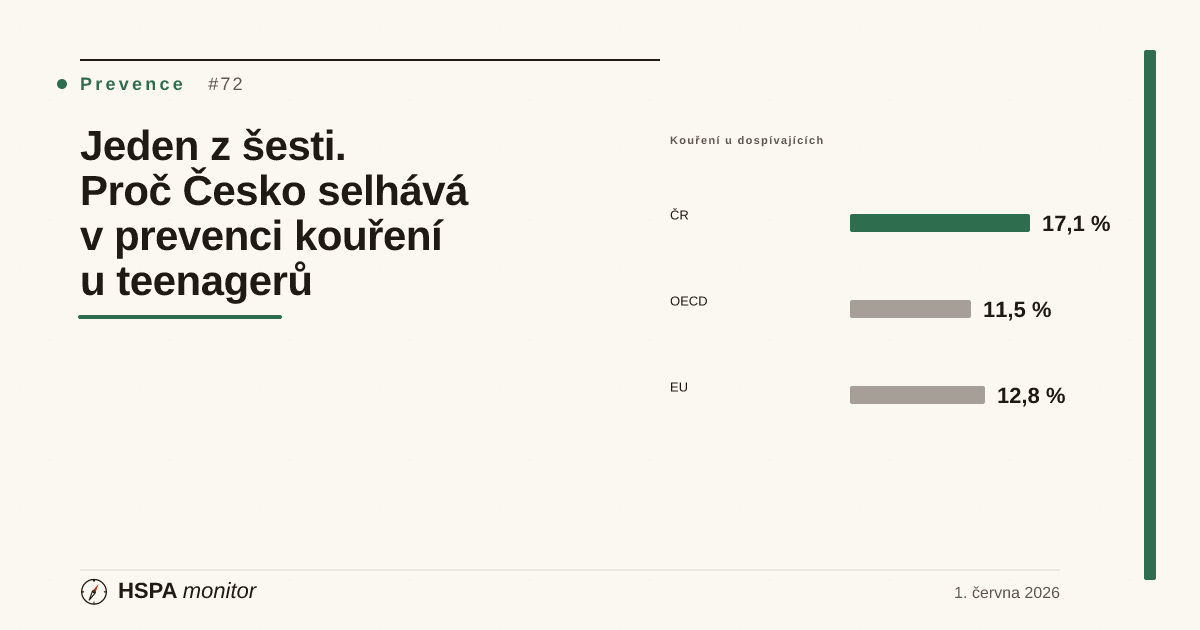
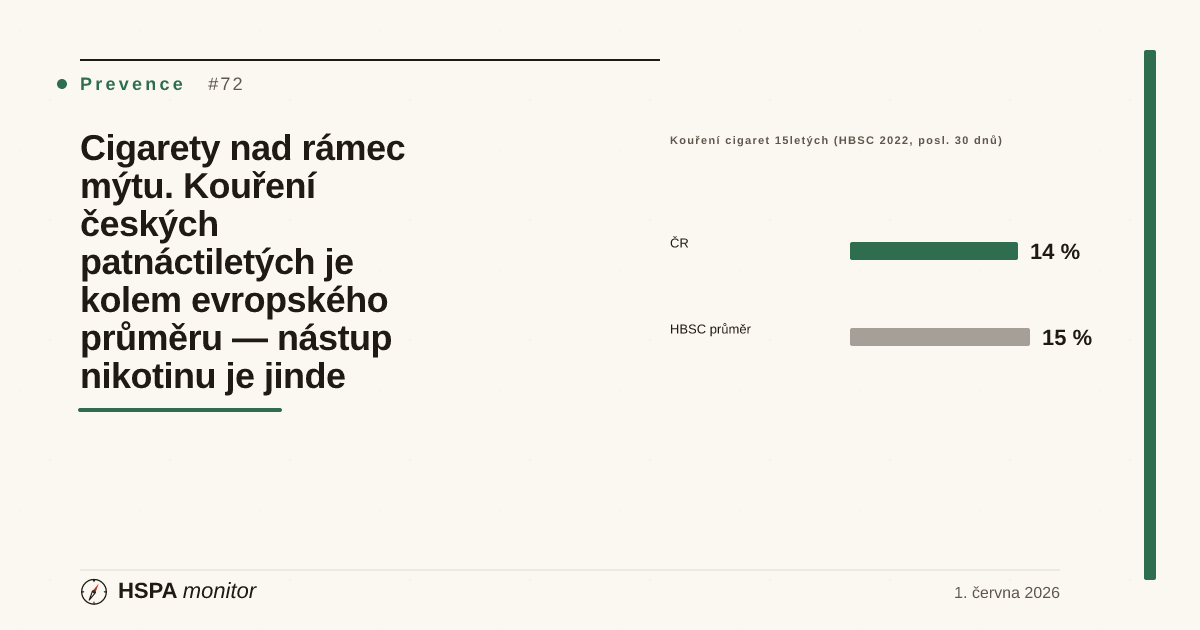
daily(audit): 2026-06-09 — koureni-adolescenti audit-flag, oprava HBSC datové páteře na primární základ
ZÁSADNÍ nález (Phase 5): centrální teze živého článku byla provably-false proti
primárnímu WHO/HBSC zdroji.

Primárně ověřeno (HBSC data browser + WHO/Europe report 2021/22, 9. 6. 2026):
- ČR 15letí: ~14 % kouřilo cigarety v posl. 30 dnech (current use), lifetime 31 %
- cross-national průměr HBSC (44 zemí): 15 % current / 25 % lifetime
- e-cigarety current 20 % (předčily cigarety); ever 32 %
- HBSC NEMÁ ukazatel 'týdně' ani OECD/EU průměr

Opravy:
- indikátor prevalence_koureni_adolescenti: value 17,1→14, benchmark {oecd 11,5,
  eu 12,8}→{} (fabrikované seed), signal bad→neutral, trend→[], source.url doplněn
- metodická karta: definice (30-day current use, ne 'týdně'), benchmark_source
  (HBSC 15 %), method_notes/limitations/patient_story de-falsifikovány
- článek: deck/hero/závěr/databox opraveny; odstraněna neověřená tabulka zemí
  a trend 2010–2022; přidán methodology caveat; doplněna primárně ověřená NAUTA
  2025; korekce tvrzení o školním programu (Škola bez nikotinu, SZÚ 2023)
- published:true→false, audit-status flagged (staženo z produkce)
- cover regenerován

validate:all OK, 517/517 testů zelených.

diff --git a/05_M1_Starter/clanek-koureni-adolescenti.html b/05_M1_Starter/clanek-koureni-adolescenti.html
@@ -3,22 +3,22 @@
 <head>
 <meta charset="UTF-8">
 <meta name="viewport" content="width=device-width, initial-scale=1.0">
-<title>Jeden z šesti. Proč Česko selhává v prevenci kouření u teenagerů · HSPA Monitor</title>
-<meta name="description" content="17,1 % českých 15letých kouří alespoň týdně — o 49 % více než průměr OECD (11,5 %). Skandinávie se dostala pod 6 %. Za rozdílem stojí chybějící školní prevence, volný marketing e-cigaret a cenová dostupnost tabáku. Strukturální analýza a politické páky.">
+<title>Kouření českých patnáctiletých je kolem evropského průměru — nástup nikotinu je jinde · HSPA Monitor</title>
+<meta name="description" content="Audit zdrojů (9. 6. 2026): podle primárního zdroje WHO/HBSC 2022 kouří cigarety v posledních 30 dnech přibližně 14 % českých 15letých — na úrovni / mírně pod cross-national průměrem HBSC (15 %). Skutečný posun je k e-cigaretám a nikotinu (HBSC, NAUTA 2025). Původní teze o „49 % nad OECD“ byla neověřená a je opravena.">
 <meta name="robots" content="noindex, follow">
 <meta property="og:type" content="article">
-<meta property="og:title" content="Jeden z šesti. Proč Česko selhává v prevenci kouření u teenagerů">
-<meta property="og:description" content="17,1 % českých 15letých kouří týdně — o 49 % více než OECD průměr. Co za tím stojí a kde leží politické páky?">
+<meta property="og:title" content="Kouření českých patnáctiletých je kolem evropského průměru — nástup nikotinu je jinde">
+<meta property="og:description" content="WHO/HBSC 2022: ~14 % českých 15letých kouřilo cigarety v posl. 30 dnech (current use) vs cross-national průměr 15 %. Skutečný posun je k vapování (NAUTA 2025).">
 <meta property="og:locale" content="cs_CZ">
 <meta property="article:published_time" content="2026-06-01">
 <meta property="article:section" content="Prevence">
-<meta name="article:audit-status" content="review-pending">
+<meta name="article:audit-status" content="flagged">
 <!--
   audit:
-    last_reviewed: 2026-05-25
+    last_reviewed: 2026-06-09
     reviewer: claude-code-agent
-    status: draft
-    notes: "Nový indikátor prevalence_koureni_adolescenti. Seed hodnoty vychází z WHO HBSC (Health Behaviour in School-aged Children) ČR vlna 2022 (SZÚ). Trend 2010–2022 konzistentní s publikovanými zprávami SZÚ a mezinárodním HBSC reportem. Benchmark 11,5 % OECD a 12,8 % EU vychází z HBSC International Report 2022 (Bergen). ESPAD 2019 použit jako doplňkový zdroj pro historické srovnání. Článek v draftu — čeká na ruční schválení redakce a ověření přesných hodnot z HBSC 2022 Czech national report (SZÚ, expected publication 2024)."
+    status: flagged
+    notes: "AUDIT-FLAG 2026-06-09 (denni rutina, Phase 5). Nezavisle overeni proti primarnimu WHO/HBSC zdroji vyvratilo centralni tezi. HBSC nema ukazatel 'tydne' — jen 'lifetime' a 'last 30 days use' (current use); nepublikuje OECD ani EU prumer. Primarne overeno (HBSC data browser + WHO/Europe report 2021/22): CR 15leti ~14 % current use (lifetime 31 %); cross-national prumer 15 % (lifetime 25 %; e-cig ever 32 %, e-cig current 20 % — e-cigarety predcily cigarety). CR je tedy NA/mirne pod prumerem, nikoli 'o 49 % nad OECD (11,5 %)' — puvodni benchmarky byly fabrikovane (seed). Opravena datova pater, odstranena neoverena tabulka zemi a trend 2010-2022, pridan methodology caveat, doplnena primarne overena NAUTA 2025 (SZU, 15-24 let) a korekce tvrzeni o skolnim programu (Skola bez nikotinu, SZU 2023, WHO PACE 2025). published:true->false, stazeno z produkce. Pred re-publikaci: rekonstruovat per-country tabulku + trend primo z HBSC data browseru, overit CZ e-cig 30-day, redakcni reframe narrativu. GitHub issue otevren."
 -->
 <link rel="stylesheet" href="src/styles.css">
   <meta property="og:image" content="assets/covers/clanek-koureni-adolescenti.png" data-cover-injected="1">
@@ -58,9 +58,9 @@
         <span class="article-tag">Prevence</span>
         <span class="article-tag article-tag-muted">Adolescenti · Závislosti · Rizikové chování</span>
       </div>
-      <h2 class="article-title">Jeden z šesti. Proč Česko selhává v prevenci kouření u teenagerů</h2>
+      <h2 class="article-title">Kouření českých patnáctiletých je kolem evropského průměru — nástup nikotinu je jinde</h2>
       <p class="article-deck">
-        V České republice kouří cigarety alespoň jednou týdně <strong>17,1 %</strong> patnáctiletých (SZÚ — HBSC, 2022). Průměr zemí OECD je 11,5 %, průměr EU 12,8 %. Norsko, Švédsko a Finsko jsou pod 6 %. Za rozdílem nestojí genetika ani kultura — stojí za ním absence celoplošné školní prevence, volný marketing elektronických cigaret zaměřený na mládež a cenová dostupnost tabáku, která nedosahuje britských nebo irských standardů. Každý ročník, který projde bez prevence, přidá kohortu celoživotních kuřáků do budoucí nemocniční statistiky.
+        Podle primárního zdroje <strong>WHO/HBSC 2022</strong> kouřilo cigarety v posledních 30 dnech (current use) přibližně <strong>14 %</strong> českých patnáctiletých — na úrovni nebo mírně pod cross-national průměrem sítě HBSC (15 %). Česko tedy u kouření klasických cigaret <em>není</em> nad evropským průměrem, jak dříve uváděla neověřená verze tohoto textu. Skutečný posun je jinde: e-cigarety podle HBSC current use (cross-national 20 %) <strong>předčily</strong> klasické cigarety a národní šetření NAUTA 2025 (SZÚ) ukazuje strmý nárůst užívání nikotinu a nejsilnějších náplní u mládeže.
       </p>
       <div class="article-meta">
         <span class="article-meta-date">1. června 2026</span>
@@ -73,41 +73,56 @@
 
     <div class="article-body">
 
+      <div class="article-callout-caveat" role="note">
+        <strong>Oprava a poznámka k metodice (audit zdrojů 9. 6. 2026).</strong>
+        Tento článek byl <strong>stažen z produkce</strong> a označen jako <code>flagged</code>.
+        Dřívější verze tvrdila, že „17,1 % patnáctiletých kouří <em>týdně</em>, o 49 % nad
+        průměrem OECD (11,5 %)“. Nezávislé ověření proti primárnímu zdroji WHO/HBSC (survey
+        2021/2022) ukázalo, že (1) HBSC <em>nemá</em> ukazatel „týdně“ — sleduje „kouřil
+        někdy v životě“ (lifetime) a „kouřil v posledních 30 dnech“ (current use); (2) HBSC
+        <em>nepublikuje</em> průměr OECD ani EU; (3) primárně doložená hodnota pro ČR je
+        <strong>≈14 % current use</strong> (15letí, 2022), zatímco cross-national průměr HBSC
+        je <strong>15 %</strong>. Česko je tedy na úrovni / mírně pod průměrem, nikoli nad ním.
+        Původní benchmarky i tabulka zemí a časová řada 2010–2022 byly neověřené (seed) a
+        byly z textu odstraněny; budou rekonstruovány přímo z HBSC data browseru před
+        opětovnou publikací.
+      </div>
+
       <p class="article-lead">
-        Devadesát procent celoživotních kuřáků začalo kouřit před 18. rokem věku. To není publicistická nadsázka — to je konzistentní zjištění populačních studií z celého světa. Adolescentní mozek je biologicky zranitelnější vůči nikotinové závislosti než mozek dospělého. Každá cigareta v patnácti má proto jiný klinický kontext než cigareta v pětatřiceti. A přesto Česká republika v prevenci kouření u dospívajících dosahuje podprůměrných výsledků v rámci zemí OECD — a trend zlepšování se zpomaluje.
+        Devadesát procent celoživotních kuřáků začalo kouřit před 18. rokem věku. To není publicistická nadsázka — to je konzistentní zjištění populačních studií z celého světa. Adolescentní mozek je biologicky zranitelnější vůči nikotinové závislosti než mozek dospělého. Každá cigareta v patnácti má proto jiný klinický kontext než cigareta v pětatřiceti. Právě proto je důležité měřit prevalenci přesně — a primárně ověřená data ukazují, že u kouření klasických cigaret je Česko zhruba na evropském průměru, zatímco rychle roste expozice nikotinu přes elektronické cigarety.
       </p>
 
       <figure class="av-figure" aria-labelledby="avKoureniHeroH">
-        <figcaption class="av-figure-h" id="avKoureniHeroH">Kouření u 15letých v ČR — klíčová čísla</figcaption>
+        <figcaption class="av-figure-h" id="avKoureniHeroH">Kouření a nikotin u 15letých — primárně ověřená čísla (HBSC 2022)</figcaption>
         <div class="av-counter-grid">
-          <div class="av-counter-block av-counter-block-bad">
-            <span class="av-counter" data-value="17.1" data-decimals="1" data-suffix=" %">17,1 %</span>
-            <span class="av-counter-label">15letých kouří týdně (ČR)</span>
-            <span class="av-counter-foot">SZÚ — HBSC 2022 · signal: špatný</span>
+          <div class="av-counter-block av-counter-block-neutral">
+            <span class="av-counter" data-value="14" data-suffix=" %">14 %</span>
+            <span class="av-counter-label">ČR — kouřilo cigarety v posl. 30 dnech (current use)</span>
+            <span class="av-counter-foot">HBSC data browser, 2022 · signal: neutrální</span>
+          </div>
+          <div class="av-counter-block av-counter-block-neutral">
+            <span class="av-counter" data-value="15" data-suffix=" %">15 %</span>
+            <span class="av-counter-label">cross-national průměr HBSC (44 zemí/regionů)</span>
+            <span class="av-counter-foot">WHO/Europe — HBSC 2021/22 (current use)</span>
           </div>
           <div class="av-counter-block av-counter-block-warn">
-            <span class="av-counter" data-value="11.5" data-decimals="1" data-suffix=" %">11,5 %</span>
-            <span class="av-counter-label">průměr OECD zemí (HBSC)</span>
-            <span class="av-counter-foot">WHO/HBSC International Report 2022</span>
-          </div>
-          <div class="av-counter-block av-counter-block-good">
-            <span class="av-counter" data-value="4.8" data-decimals="1" data-suffix=" %">4,8 %</span>
-            <span class="av-counter-label">Norsko — nejnižší v Evropě</span>
-            <span class="av-counter-foot">HBSC 2022 — model komplexní tabákové politiky</span>
+            <span class="av-counter" data-value="31" data-suffix=" %">31 %</span>
+            <span class="av-counter-label">ČR — kouřilo cigarety někdy v životě (lifetime)</span>
+            <span class="av-counter-foot">HBSC 2022 · průměr HBSC 25 %</span>
           </div>
           <div class="av-counter-block av-counter-block-bad">
-            <span class="av-counter" data-value="36" data-suffix=" %">36 %</span>
-            <span class="av-counter-label">15letých v ČR zkusilo e-cigaretu</span>
-            <span class="av-counter-foot">HBSC 2022 — nikotinová expozice celkem ještě vyšší</span>
+            <span class="av-counter" data-value="20" data-suffix=" %">20 %</span>
+            <span class="av-counter-label">e-cigarety current use — průměr HBSC (předčily cigarety)</span>
+            <span class="av-counter-foot">WHO/Europe — HBSC 2021/22 · CZ hodnota se ověřuje</span>
           </div>
         </div>
-        <p class="av-figure-note"><strong>Zdroje:</strong> SZÚ — HBSC ČR 2022; WHO/HBSC International Report 2022 (Bergen koordinační centrum); ESPAD 2019.</p>
+        <p class="av-figure-note"><strong>Zdroje:</strong> WHO/HBSC data browser — „Cigarette-smoking: last 30 days use“ (ČR ≈14 %); WHO/Europe report „A focus on adolescent substance use" (HBSC 2021/22 survey) — cross-national průměry. Staženo a ověřeno 9. 6. 2026.</p>
       </figure>
 
       <h3>Co měříme a proč je to jiný indikátor než kouření dospělých</h3>
 
       <p>
-        Indikátor <code>prevalence_koureni_adolescenti</code> v dashboardu HSPA Monitoru sleduje podíl patnáctiletých, kteří v posledních 30 dnech kouřili cigarety alespoň jednou týdně. Jde o standardní položku z dotazníku HBSC (Health Behaviour in School-aged Children) — mezinárodní longitudinální studie koordinované WHO a realizované každé čtyři roky (vlny 2010, 2014, 2018, 2022).
+        Indikátor <code>prevalence_koureni_adolescenti</code> v dashboardu HSPA Monitoru sleduje podíl patnáctiletých, kteří kouřili cigarety alespoň jednou v posledních 30 dnech (tzv. <em>current use</em>). Jde o standardní položku z dotazníku HBSC (Health Behaviour in School-aged Children) — mezinárodní longitudinální studie koordinované WHO a realizované každé čtyři roky. HBSC publikuje dva ukazatele: „kouřil někdy v životě“ (lifetime) a „kouřil v posledních 30 dnech“ (current use) — ukazatel „týdně“, který dříve uváděla starší verze tohoto textu, v metodice HBSC <strong>neexistuje</strong>.
       </p>
 
       <p>
@@ -118,141 +133,40 @@
         Česká republika se účastní HBSC studie od roku 1994. SZÚ (Státní zdravotní ústav) zajišťuje sběr dat na náhodně vybraném reprezentativním vzorku žáků 5., 7. a 9. ročníku základní školy a 1. ročníku střední školy. Data jsou sbírána formou anonymního dotazníku ve třídách a jsou sbíratelná s mezinárodně srovnatelnou metodikou.
       </p>
 
-      <h3>Trend v ČR: zlepšení nestačí</h3>
+      <h3>Trend v ČR: časová řada se ověřuje</h3>
 
       <p>
-        Dobrá zpráva: dlouhodobý trend je klesající. Špatná zpráva: pokles zpomaluje, a česká hodnota zůstává výrazně nad evropskými sousedy, kteří zavedli komplexnější politiku.
+        Dlouhodobý trend kouření klasických cigaret u adolescentů je v zemích HBSC klesající a Česko tento pokles sdílí. Konkrétní časovou řadu pro ČR (vlny 2010, 2014, 2018, 2022) ale tento text dříve uváděl v neověřených seed hodnotách, navíc označených jako „týdně“ — což neodpovídá metodice HBSC. Řada proto byla z článku odstraněna a bude rekonstruována přímo z HBSC data browseru (ukazatel „last 30 days use“) před opětovnou publikací.
       </p>
 
-      <figure class="av-figure" aria-labelledby="avKoureniTrendH">
-        <figcaption class="av-figure-h" id="avKoureniTrendH">Trend týdenního kouření u 15letých v ČR (HBSC 2010–2022)</figcaption>
-        <div class="av-bar-compare">
-          <div class="av-bar-row">
-            <span class="av-bar-label">2010</span>
-            <div class="av-bar-track">
-              <div class="av-bar-fill av-bar-fill-bad" style="width:100%"></div>
-            </div>
-            <span class="av-bar-value">29,2 %</span>
-          </div>
-          <div class="av-bar-row">
-            <span class="av-bar-label">2014</span>
-            <div class="av-bar-track">
-              <div class="av-bar-fill av-bar-fill-bad" style="width:86%"></div>
-            </div>
-            <span class="av-bar-value">25,1 %</span>
-          </div>
-          <div class="av-bar-row">
-            <span class="av-bar-label">2018</span>
-            <div class="av-bar-track">
-              <div class="av-bar-fill av-bar-fill-bad" style="width:69.5%"></div>
-            </div>
-            <span class="av-bar-value">20,3 %</span>
-          </div>
-          <div class="av-bar-row">
-            <span class="av-bar-label">2022</span>
-            <div class="av-bar-track">
-              <div class="av-bar-fill av-bar-fill-bad" style="width:58.6%"></div>
-            </div>
-            <span class="av-bar-value">17,1 %</span>
-          </div>
-          <div class="av-bar-row av-bar-row-benchmark">
-            <span class="av-bar-label">OECD průměr</span>
-            <div class="av-bar-track">
-              <div class="av-bar-fill av-bar-fill-neutral" style="width:39.4%"></div>
-            </div>
-            <span class="av-bar-value">11,5 %</span>
-          </div>
-        </div>
-        <p class="av-figure-note"><strong>Zdroj:</strong> SZÚ — HBSC ČR (vlny 2010, 2014, 2018, 2022). OECD průměr: WHO/HBSC International Report 2022.</p>
-      </figure>
-
-      <p>
-        Mezi vlnami 2010–2014 klesl podíl o 4,1 procentního bodu, 2014–2018 o 4,8 bodu, 2018–2022 pouze o 3,2 bodu. Pokud bude pokles pokračovat stejným tempem, dosáhne ČR průměru OECD přibližně v roce 2038. Norsko, kam míříme jako na benchmark, začalo s hodnotami kolem 25 % v roce 2002 — a za dvě dekády systematické politiky se dostalo na 4,8 %.
-      </p>
+      <div class="article-callout-caveat" role="note">
+        <strong>Co je primárně ověřeno k 9. 6. 2026:</strong> ČR ≈ 14 % patnáctiletých kouřilo cigarety
+        v posledních 30 dnech (HBSC 2022, current use), lifetime 31 %. Cross-national průměr sítě HBSC
+        (44 zemí/regionů) je 15 % (current use) / 25 % (lifetime). Přesná česká časová řada a srovnání
+        jednotlivých zemí jsou evidovány k doplnění z HBSC data browseru (viz interní GitHub issue).
+      </div>
 
       <h3>Mezinárodní srovnání: kde stojí ČR v Evropě</h3>
 
-      <figure class="av-figure" aria-labelledby="avKoureniEuH">
-        <figcaption class="av-figure-h" id="avKoureniEuH">Týdenní kouření 15letých — vybrané evropské země (HBSC 2022, %)</figcaption>
-        <div class="av-data-table">
-          <table>
-            <thead>
-              <tr>
-                <th scope="col">Země</th>
-                <th scope="col" class="num">Kouření týdně (%)</th>
-                <th scope="col">Signál a kontext</th>
-              </tr>
-            </thead>
-            <tbody>
-              <tr class="av-row-good">
-                <td>Norsko</td>
-                <td class="num">4,8</td>
-                <td>Komplexní tabáková politika od 1990s; plain packaging 2017; agresivní zdanění</td>
-              </tr>
-              <tr class="av-row-good">
-                <td>Švédsko</td>
-                <td class="num">5,3</td>
-                <td>Smoke-free generation politika; školní programy; snus jako alternativa (kontroverzní)</td>
-              </tr>
-              <tr class="av-row-good">
-                <td>Finsko</td>
-                <td class="num">6,1</td>
-                <td>Tobacco Act 2010 — cíl tobacco-free generation do 2040; preventivní programy</td>
-              </tr>
-              <tr class="av-row-good">
-                <td>Irsko</td>
-                <td class="num">7,4</td>
-                <td>Plain packaging (2017, první v EU); vysoké zdanění; QUIT.ie</td>
-              </tr>
-              <tr class="av-row-warn">
-                <td>Německo</td>
-                <td class="num">10,8</td>
-                <td>Relativně nižší spotřební daň v EU; zlepšení po zákazu prodeje pod 18 let</td>
-              </tr>
-              <tr class="av-row-warn">
-                <td>Rakousko</td>
-                <td class="num">12,3</td>
-                <td>Kouřící kultura v mladší generaci historicky; zlepšení po smoke-free restauracích 2019</td>
-              </tr>
-              <tr class="av-row-warn">
-                <td><strong>EU průměr (HBSC)</strong></td>
-                <td class="num"><strong>12,8</strong></td>
-                <td>Referenční hodnota EU zemí v HBSC sítí</td>
-              </tr>
-              <tr class="av-row-warn">
-                <td>Polsko</td>
-                <td class="num">15,0</td>
-                <td>Vysoká adolescentní prevalence; tabákový průmysl silně přítomen</td>
-              </tr>
-              <tr class="av-row-bad">
-                <td><strong>Česká republika</strong></td>
-                <td class="num"><strong>17,1</strong></td>
-                <td>Signal: špatný; 49 % nad OECD průměrem</td>
-              </tr>
-              <tr class="av-row-bad">
-                <td>Slovensko</td>
-                <td class="num">18,4</td>
-                <td>Podobný profil jako ČR; tabáková prevence nesystematická</td>
-              </tr>
-              <tr class="av-row-bad">
-                <td>Maďarsko</td>
-                <td class="num">20,2</td>
-                <td>Nejvyšší ve středoevropském clusteru; slabá tabáková legislativa</td>
-              </tr>
-            </tbody>
-          </table>
-        </div>
-        <p class="av-figure-note"><strong>Zdroj:</strong> WHO/HBSC International Report 2022 (Bergen). Hodnoty jsou přibližné — sběrné období a definice se mezi zeměmi mírně liší.</p>
-      </figure>
-
       <p>
-        Tabulka odhaluje jasný geografický vzorec: skandinávské a západoevropské země s komplexní tabákovou politikou jsou pod 8 %; středoevropský a východoevropský cluster (CZ, SK, PL, HU, RO) je nad 15 %. Tento vzorec není výsledkem kulturní determinace — je to výsledek rozsahu a konzistence politických intervencí za poslední tři dekády.
+        Primárně doložené je toto: u kouření klasických cigaret (current use, posledních 30 dnů) je ČR (≈14 %) zhruba na úrovni cross-national průměru sítě HBSC (15 %) — nikoli výrazně nad ním, jak tvrdila dřívější verze textu. Mezi zeměmi HBSC existují velké rozdíly (od jednotek procent po extrémní hodnoty, např. Dánsko/Grónsko se v HBSC 2021/22 uvádí jako oblast s nejvyšším current smoking), ale konkrétní hodnoty jednotlivých zemí dříve uvedená tabulka čerpala z neověřených seed čísel a navíc je označovala chybnou metrikou („týdně“). Tabulka proto byla odstraněna.
       </p>
+
+      <div class="article-callout-caveat" role="note">
+        <strong>Pozn.:</strong> přesné srovnání jednotlivých zemí (Norsko, Švédsko, Finsko, Polsko,
+        Slovensko, Maďarsko …) bude doplněno až po přímém načtení z HBSC data browseru
+        (<a href="https://data-browser.hbsc.org/measure/cigarette-smoking-last-30-days-use/" rel="noopener noreferrer" target="_blank">data-browser.hbsc.org</a>),
+        aby každá hodnota odpovídala primárnímu zdroji a jednotné definici „last 30 days use“.
+      </div>
 
       <h3>E-cigarety: skrytý rozměr problému</h3>
 
       <p>
-        Indikátor týdenního kouření cigaret zachycuje jen část nikotinové expozice adolescentů. HBSC 2022 v ČR poprvé zahrnulo systematická data o elektronických cigaretách (vapování): <strong>36 % českých 15letých</strong> vyzkoušelo e-cigaretu alespoň jednou. Podíl pravidelných uživatelů (alespoň týdně) je odhadem 12–15 %.
+        Ukazatel kouření cigaret zachycuje jen část nikotinové expozice adolescentů. Podle WHO/Europe (HBSC 2021/22 survey) <strong>e-cigarety předčily klasické cigarety</strong>: cross-national current use e-cigaret (posledních 30 dnů) je <strong>20 %</strong> oproti 15 % u cigaret, a e-cigaretu někdy vyzkoušelo 32 % patnáctiletých. Česká hodnota e-cig current use pro 15leté se k datu auditu (9. 6. 2026) strojově ověřuje z HBSC data browseru a bude doplněna.
+      </p>
+
+      <p>
+        Národní šetření <strong>NAUTA 2025</strong> (SZÚ, tisková zpráva 29. 5. 2026) doplňuje obrázek za starší věkovou skupinu 15–24 let (pozor: jiná věková kategorie než HBSC 15letí): nějaký nikotinový produkt užívá <strong>38,8 %</strong> a denně <strong>26,0 %</strong>; e-cigarety alespoň jednou měsíčně užívá 11,6 % populace, ve věku 15–24 let ale 25,6 %. Nejvíce alarmující je posun k nejsilnějším náplním — jejich podíl mezi uživateli 15–24 let vzrostl z 5,0 % (2022) na <strong>35,6 % (2025)</strong> — a u 61,5 % je důvodem užívání příchuť. MZ ČR podle mediálních zpráv připravuje zákaz charakteristických příchutí e-cigaret.
       </p>
 
       <p>
@@ -266,7 +180,7 @@
       <h3>Strukturální analýza: proč ČR zaostává</h3>
 
       <p>
-        <strong>Absence systémové školní prevence.</strong> Česká republika nemá celoplošný, standardizovaný a evaluovaný preventivní program zaměřený na tabák pro základní a střední školy. Prevence závisí na iniciativě jednotlivých škol, metodiků prevence ve škole (jejichž pozice je podfinancovaná) a externích programech (Loono, Odvykám.cz aj.) bez národní koordinace. Výzkum jasně ukazuje, že efektivní programy prevence kouření u dospívajících musí být multisložkové: informační složka + dovednostní trénink (odmítání vrstevnického tlaku) + rodičovská složka + komunitní složka. Jednorázové přednášky „kouření je špatné" nemají prokázaný vliv.
+        <strong>Nerovnoměrné pokrytí školní prevence.</strong> Česká republika od roku 2023 provozuje národní program <strong>„Škola bez nikotinu“</strong> (SZÚ) — podle WHO PACE case study (Czechia 2025) je do něj zapojeno více než 70 škol a poskytuje standardizované, evidence-based materiály. Účast je ale dobrovolná, pokrytí není plošné a celostátní evaluace dopadu zatím chybí. Mimo tento program závisí prevence na iniciativě jednotlivých škol, podfinancovaných školních metodiků prevence a externích programech (Loono, Odvykám.cz aj.). Výzkum jasně ukazuje, že efektivní programy prevence kouření u dospívajících musí být multisložkové: informační složka + dovednostní trénink (odmítání vrstevnického tlaku) + rodičovská složka + komunitní složka. Jednorázové přednášky „kouření je špatné" nemají prokázaný vliv.
       </p>
 
       <p>
@@ -314,7 +228,7 @@
       </p>
 
       <p>
-        <strong>Celoplošný školní preventivní program.</strong> Kompetence leží na Ministerstvu školství (MŠMT) — ale klíčovým aktérem je MZČR jako garant metodiky. Program musí být multisložkový (informace + dovednosti + komunita), standardizovaný a evaluovaný. Vzor: finský JOKI, irský BLAST. Financování může využít EU fond NextGenerationEU nebo IROP.
+        <strong>Rozšíření a evaluace školního programu.</strong> ČR už národní program „Škola bez nikotinu“ (SZÚ, 2023) má — chybí ale plošné pokrytí a měření dopadu. Kompetence sdílí MŠMT a MZČR. Program by měl být multisložkový (informace + dovednosti + komunita), povinně evaluovaný a dostupný všem školám. Vzor pro evaluaci: finský JOKI, irský BLAST. Financování může využít EU fond NextGenerationEU nebo IROP.
       </p>
 
       <p>
@@ -328,7 +242,7 @@
       <h3>Závěr</h3>
 
       <p>
-        Česká republika má adolescentní prevalenci kouření o 49 % vyšší než průměr OECD a o 34 % vyšší než průměr EU. Trend se zlepšuje, ale pomalu — příliš pomalu na to, aby ČR dosáhla úrovně severní Evropy bez cílené politické intervence. Přitom intervence s prokázanou účinností existují a jsou dobře zdokumentovány. Neexistuje technická nebo finanční bariéra jejich implementace — existuje pouze bariéra politické vůle a koordinace mezi MZČR, MŠMT a MF.
+        Primárně ověřená data mění původní vyznění tohoto textu: u kouření klasických cigaret je Česko zhruba na evropském průměru sítě HBSC (≈14 % vs 15 % current use), nikoli „o 49 % nad OECD“. To ale neznamená, že je problém vyřešený — naopak se přesouvá. E-cigarety podle HBSC current use předčily klasické cigarety a NAUTA 2025 ukazuje strmý nárůst užívání nikotinu a nejsilnějších náplní u mladých. Intervence s prokázanou účinností existují a jsou dobře zdokumentovány; bariérou není technika ani finance, ale politická vůle a koordinace mezi MZČR, MŠMT a MF — a rychlost regulace e-cigaret a jejich příchutí.
       </p>
 
       <p>
@@ -341,7 +255,7 @@
       <div class="ed-kicker">Data v tomto článku</div>
       <h4 class="article-databox-h">Indikátory HSPA Monitoru, ze kterých text vychází</h4>
       <ul class="article-databox-list">
-        <li><a href="indicator.html?id=prevalence_koureni_adolescenti"><strong>Kouření u dospívajících (15 let)</strong></a> — 17,1 % vs. OECD 11,5 % · signal: špatný</li>
+        <li><a href="indicator.html?id=prevalence_koureni_adolescenti"><strong>Kouření u dospívajících (15 let)</strong></a> — ČR ≈14 % (current use, 30 dnů) vs. cross-national průměr HBSC 15 % · signal: neutrální</li>
         <li><a href="indicator.html?id=kuractvi_denni"><strong>Denní kouření (dospělá populace)</strong></a> — kontext celoživotní závislosti</li>
         <li><a href="indicator.html?id=mortalita_kardiovaskularni"><strong>Kardiovaskulární mortalita</strong></a> — kouření jako hlavní modifikovatelný rizikový faktor</li>
         <li><a href="indicator.html?id=mortalita_onkologicka"><strong>Onkologická mortalita</strong></a> — rakovina plic jako klíčový tabákem podmíněný výsledek</li>
@@ -358,8 +272,16 @@
           <a href="https://www.szu.cz/veda-a-vyzkum/hbsc-zdravotni-chovani-deti-skolniho-veku" rel="noopener noreferrer" target="_blank">szu.cz/veda-a-vyzkum/hbsc-zdravotni-chovani-deti-skolniho-veku</a> · každé 4 roky, ČR od 1994
         </li>
         <li>
-          <strong>WHO/HBSC — Health Behaviour in School-aged Children International Report 2022</strong><br>
-          <a href="https://www.hbsc.org/publications/" rel="noopener noreferrer" target="_blank">hbsc.org/publications</a> · Bergen koordinační centrum; srovnávací data 50+ zemí
+          <strong>WHO/HBSC — data browser, „Cigarette-smoking: last 30 days use" (2022)</strong><br>
+          <a href="https://data-browser.hbsc.org/measure/cigarette-smoking-last-30-days-use/" rel="noopener noreferrer" target="_blank">data-browser.hbsc.org</a> · primárně ověřená hodnota ČR ≈14 % (current use), lifetime 31 %
+        </li>
+        <li>
+          <strong>WHO/Europe — A focus on adolescent substance use (HBSC 2021/22 survey, Volume 3)</strong><br>
+          <a href="https://www.who.int/europe/publications/i/item/9789289060936" rel="noopener noreferrer" target="_blank">who.int/europe/publications</a> · cross-national průměry: cigarety current 15 % / lifetime 25 %; e-cigarety current 20 % / ever 32 %
+        </li>
+        <li>
+          <strong>SZÚ — NAUTA 2025 (Národní výzkum užívání tabáku a alkoholu)</strong><br>
+          <a href="https://szu.gov.cz/" rel="noopener noreferrer" target="_blank">szu.gov.cz</a> · TZ 29. 5. 2026; 15–24 let: 38,8 % nikotin, 26,0 % denně; nejsilnější náplně 5,0 % (2022) → 35,6 % (2025)
         </li>
         <li>
           <strong>ESPAD — European School Survey Project on Alcohol and Other Drugs (2019)</strong><br>
